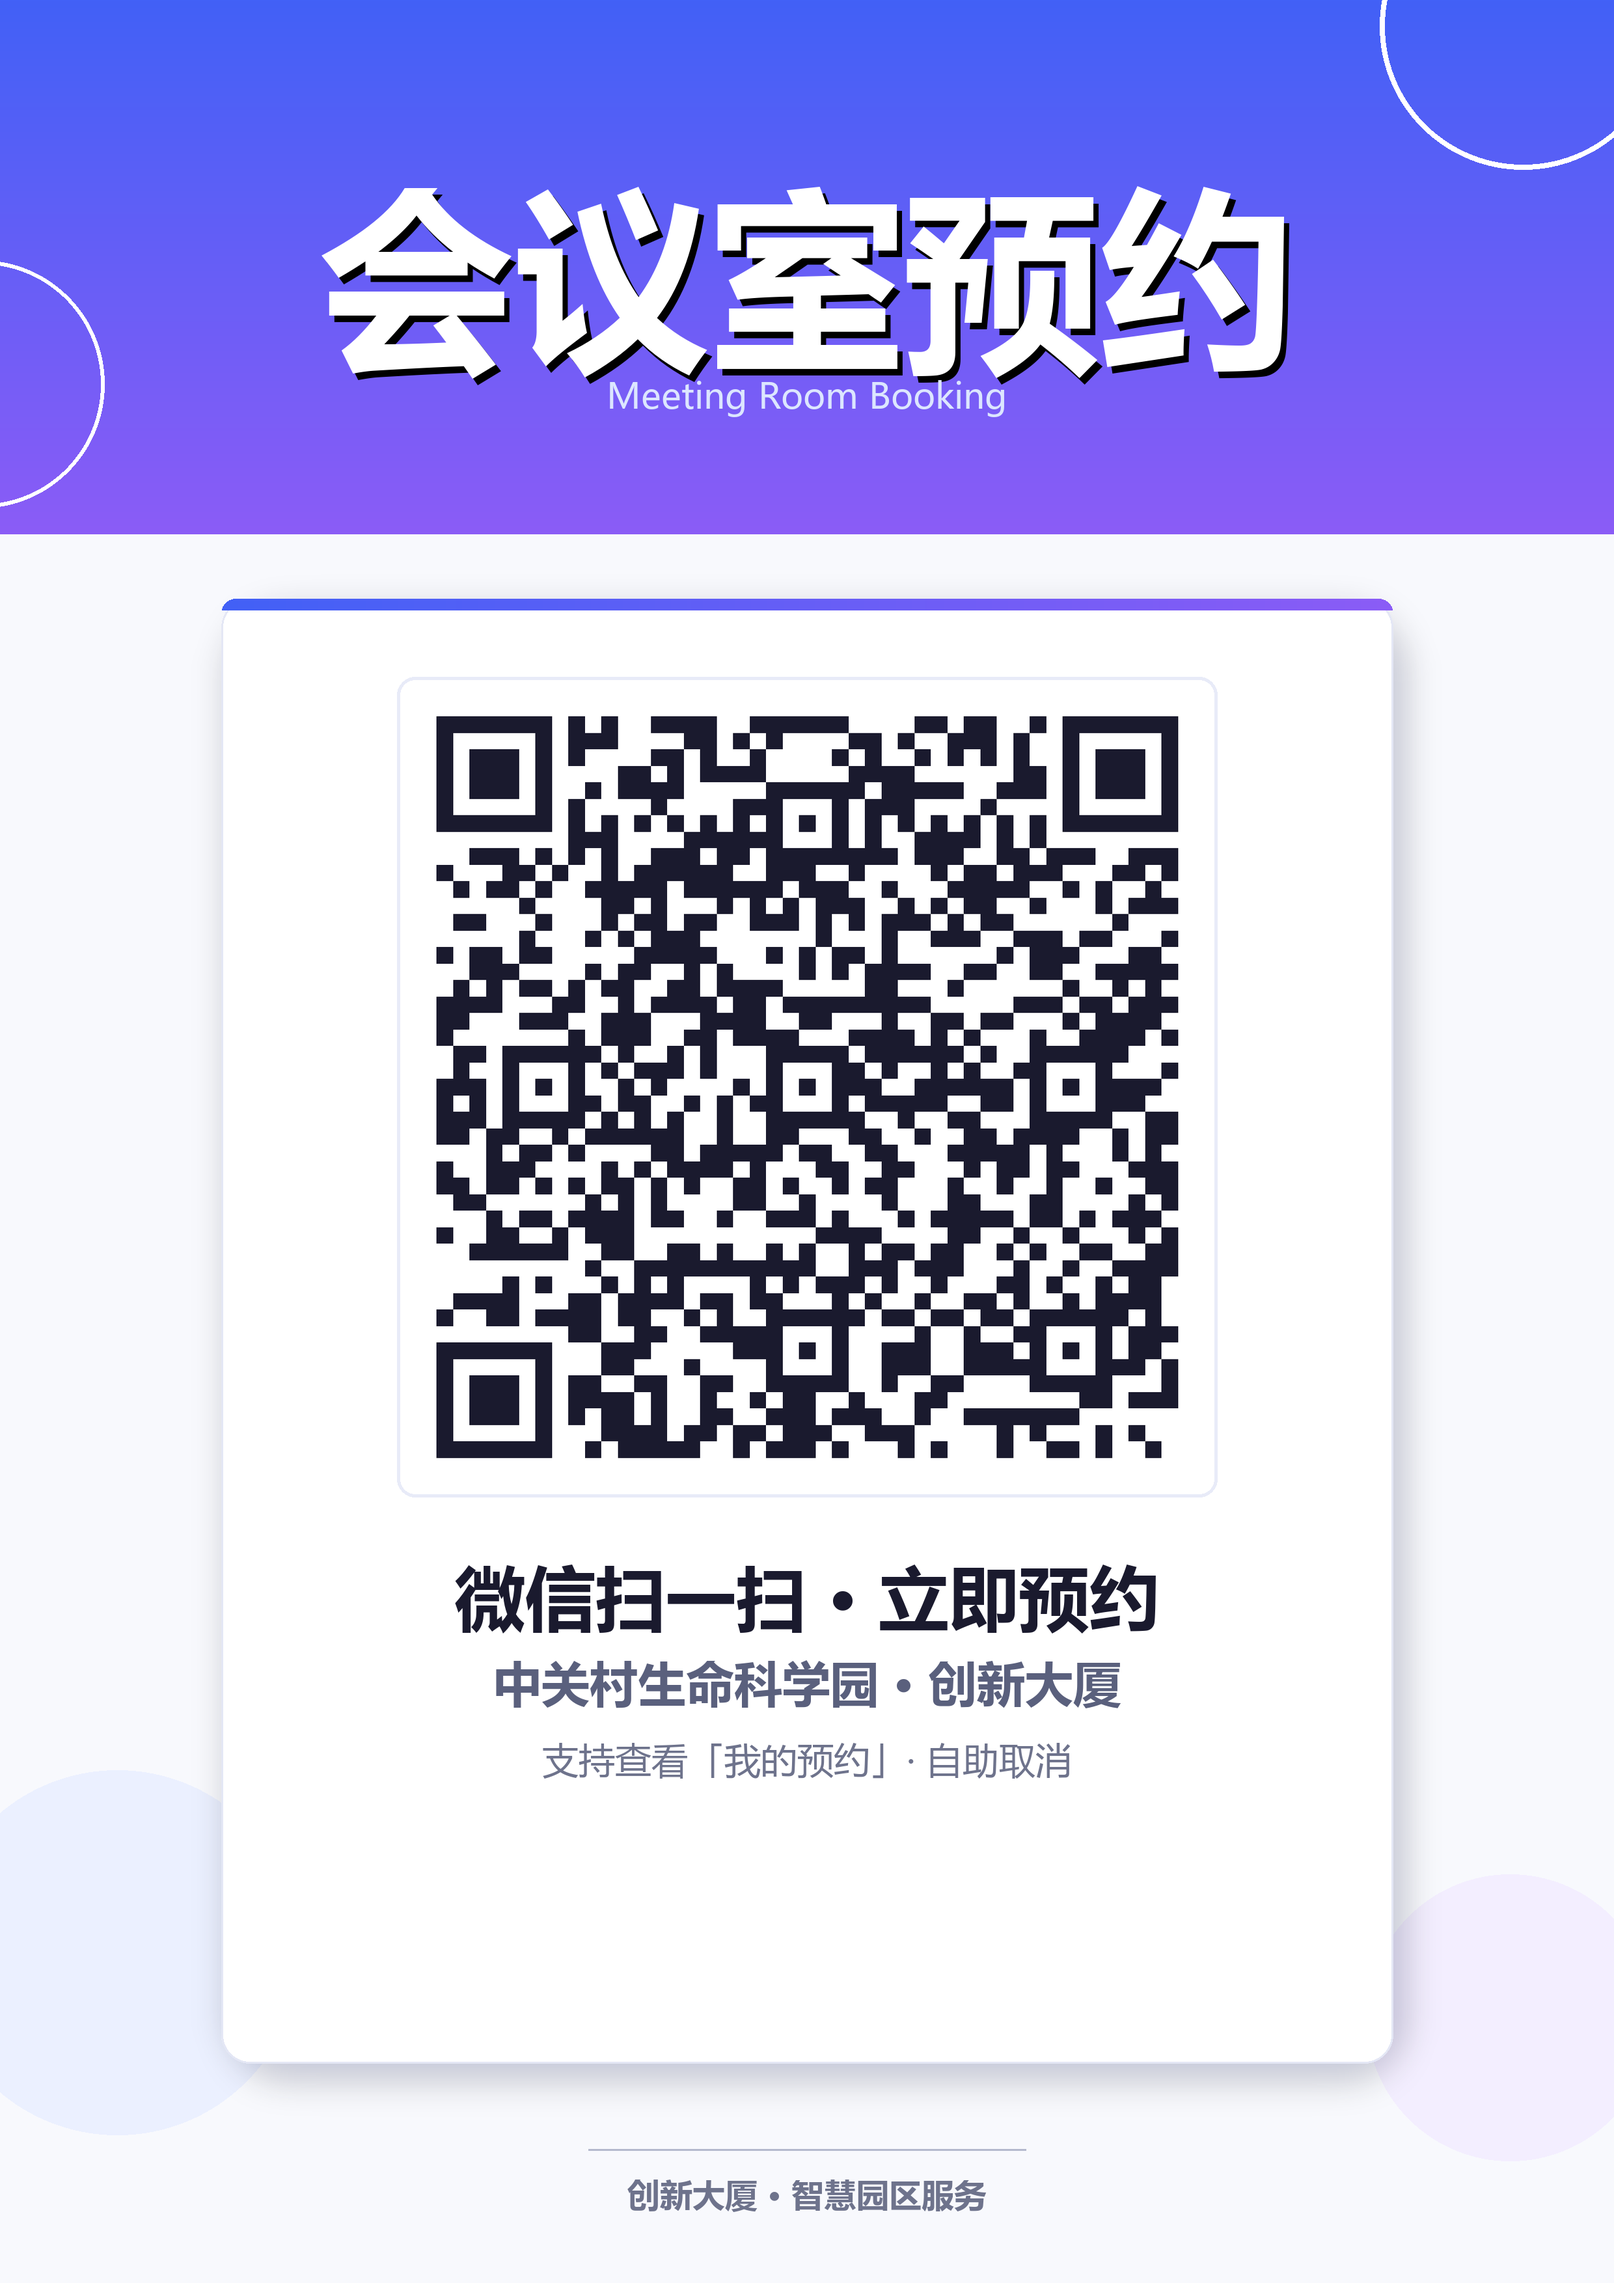
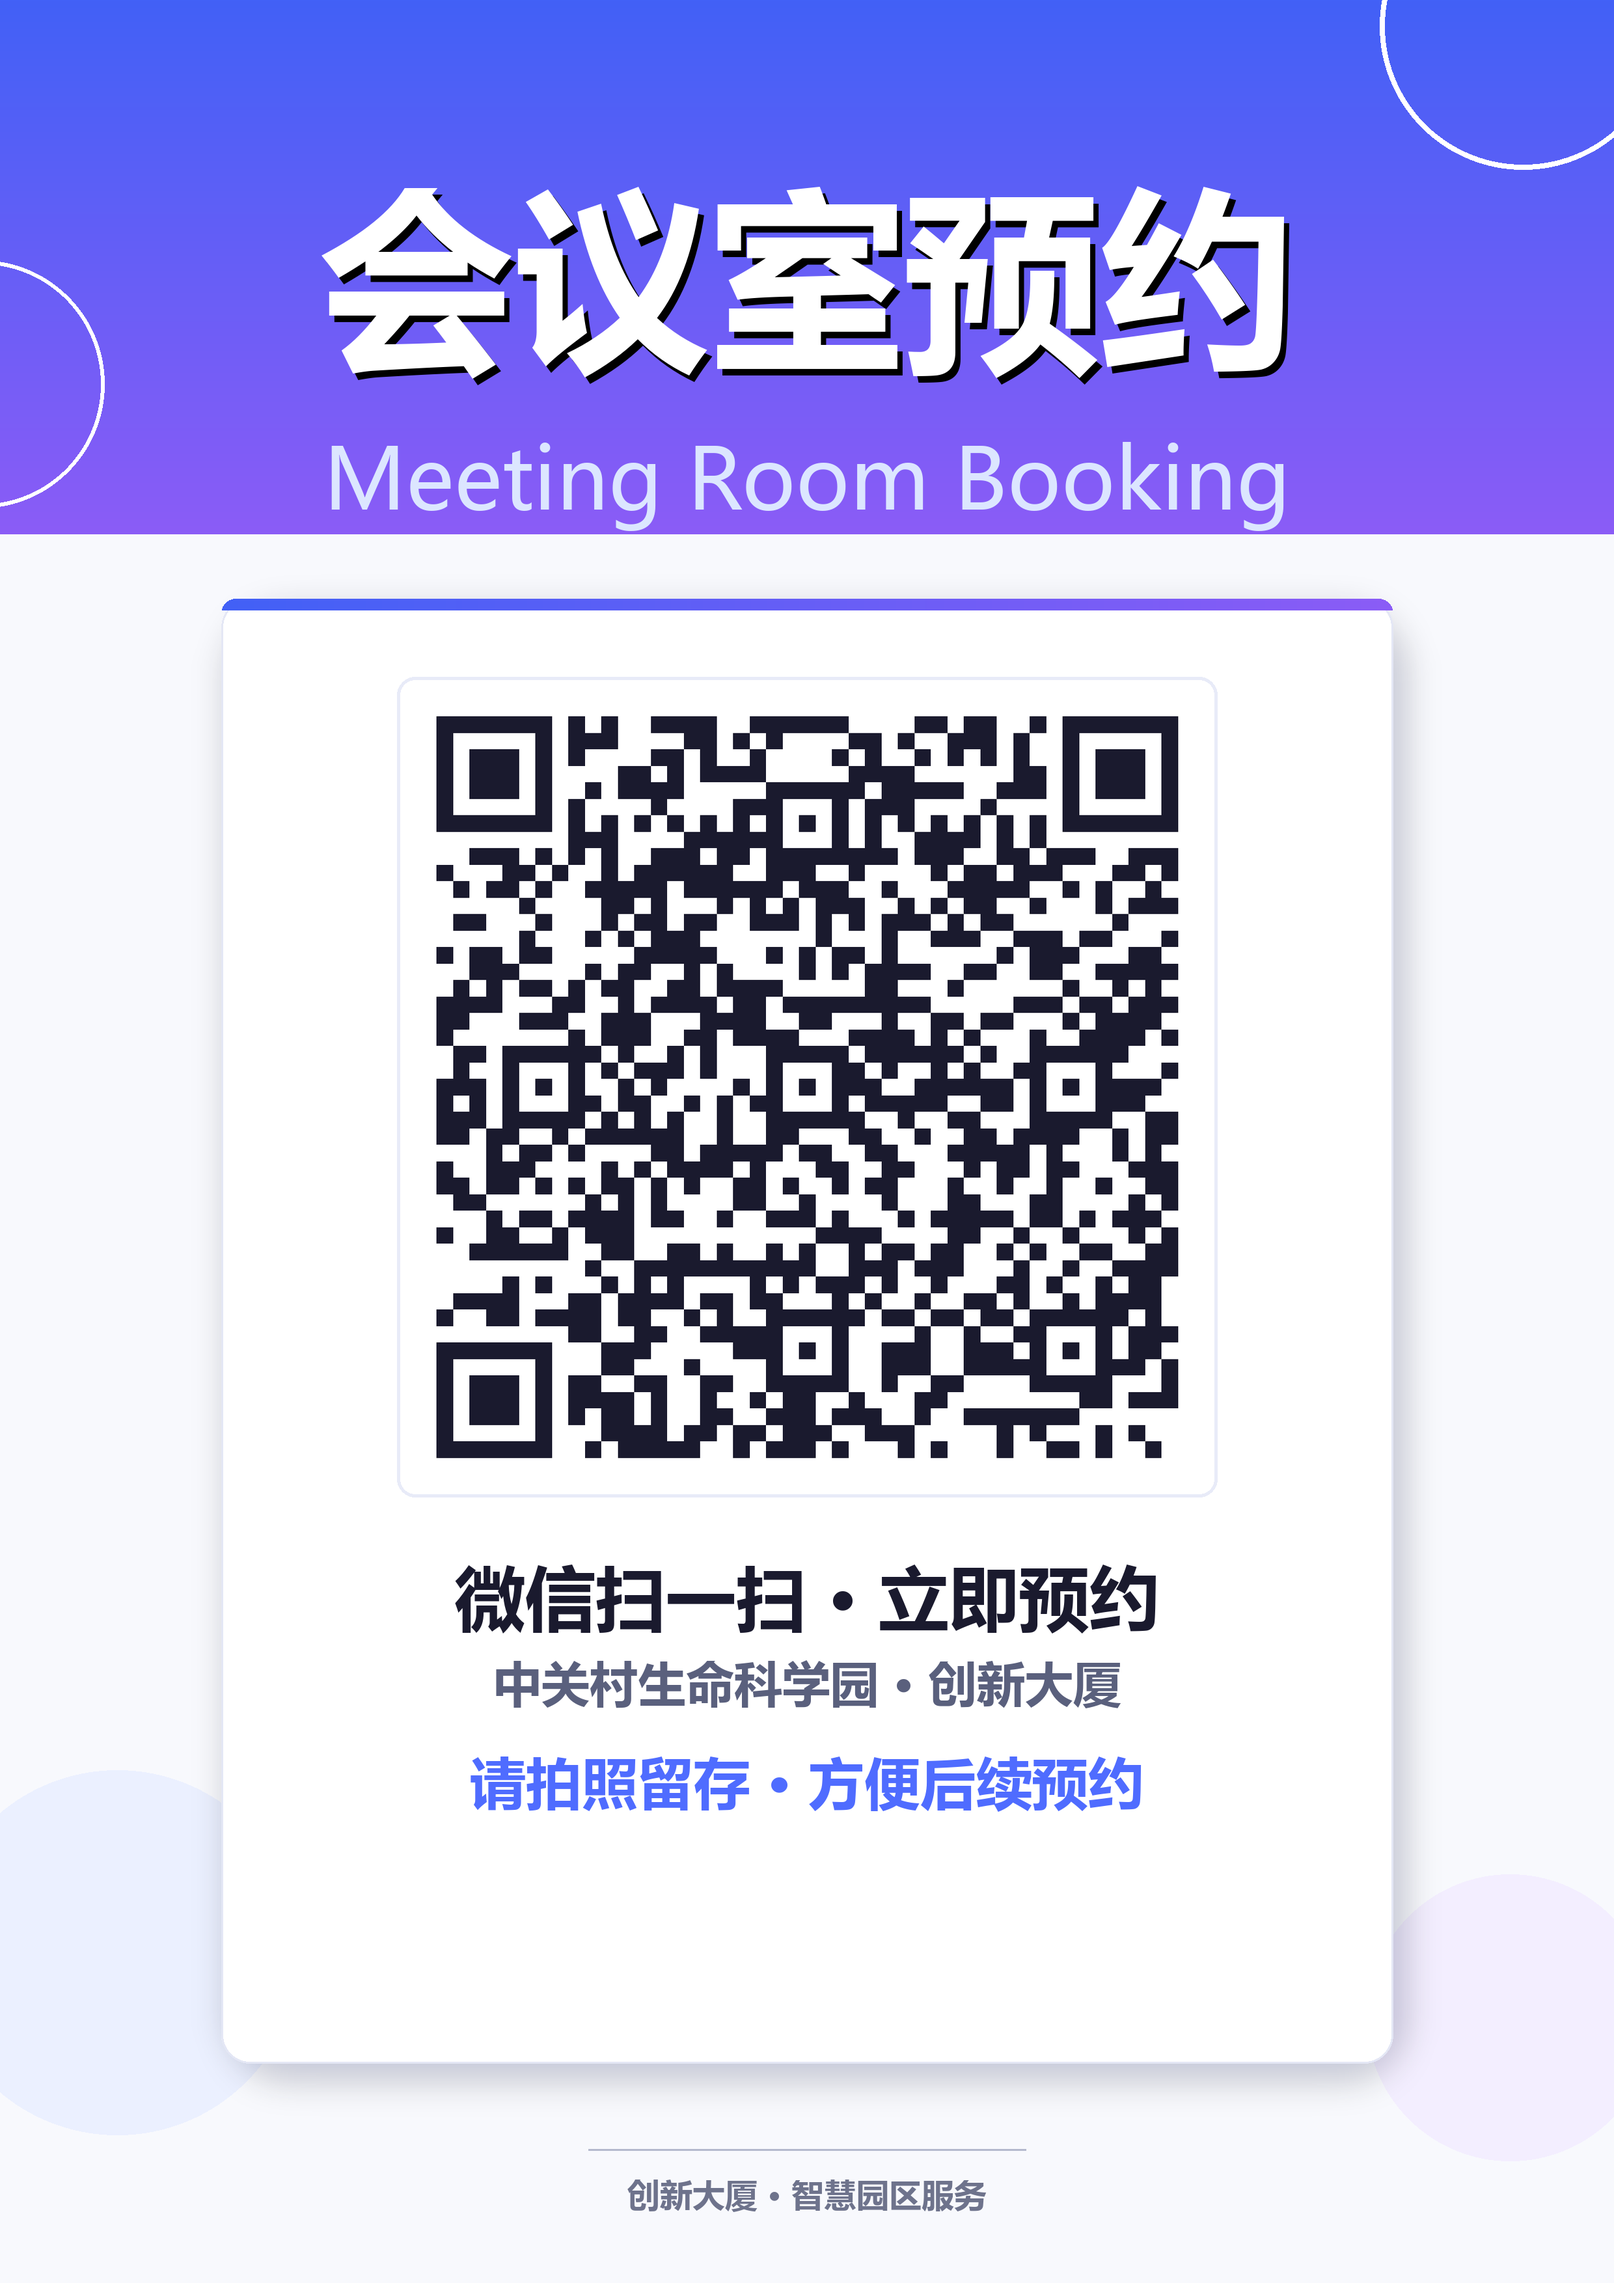
update(首页规则+海报终版): 调整使用须知 4 条；A4 海报定稿（拍照留存+英文宽度对齐中文）

Changed region(s): [[0.1863, 0.1554, 0.8073, 0.2486], [0.2794, 0.7457, 0.7141, 0.8079]]

diff --git a/public/index.html b/public/index.html
@@ -25,19 +25,19 @@
         <div style="font-size: 13px; color: var(--text-secondary); line-height: 1.9;">
           <div style="display: flex; gap: 8px; align-items: flex-start;">
             <span class="badge badge-primary">①</span>
-            <span>每次预约最长 1 小时，可连续选择多个时段</span>
+            <span>每次预约最长 3 小时</span>
           </div>
           <div style="display: flex; gap: 8px; align-items: flex-start; margin-top: 10px;">
             <span class="badge badge-primary">②</span>
-            <span id="tip-advance">仅可预约未来 7 天内的工作时段（08:00-20:00）</span>
+            <span>同一企业单天最多预约 6 小时</span>
           </div>
           <div style="display: flex; gap: 8px; align-items: flex-start; margin-top: 10px;">
             <span class="badge badge-primary">③</span>
-            <span>同一企业同一时段仅可预订 1 间会议室</span>
+            <span>仅可预约未来 5 个工作日</span>
           </div>
           <div style="display: flex; gap: 8px; align-items: flex-start; margin-top: 10px;">
             <span class="badge badge-primary">④</span>
-            <span>如需取消或调整，请联系园区运营</span>
+            <span>取消请在「我的预约」中自行操作，有任何问题请联系园区运营人员</span>
           </div>
         </div>
       </div>

diff --git a/poster.py b/poster.py
@@ -52,11 +52,17 @@ tx, ty = (W - tw) / 2, 220
 d.text((tx + 8, ty + 10), t, font=f_title, fill=(0, 0, 0))
 d.text((tx, ty), t, font=f_title, fill=WHITE)
 
-# 英文装饰小字
-f_en = font(54)
+# 英文装饰：宽度对齐中文主标题「会议室预约」（视觉一致、约一半字号）
 t_en = "Meeting Room Booking"
-tw_en = d.textlength(t_en, font=f_en)
-d.text(((W - tw_en) / 2, 570), t_en, font=f_en, fill=(220, 230, 255))
+cn_w = d.textlength("会议室预约", font=f_title)
+en_sz = 200
+while en_sz > 20:
+    fe = font(en_sz)
+    if d.textlength(t_en, font=fe) <= cn_w:
+        break
+    en_sz -= 2
+en_y = 560 + max(0, (300 - en_sz)) // 2
+d.text(((W - d.textlength(t_en, font=fe)) / 2, en_y), t_en, font=fe, fill=(220, 230, 255))
 
 # ---------- 中央白卡片 ----------
 CARD_W, CARD_H = 1800, 2250
@@ -111,10 +117,11 @@ t2 = "中关村生命科学园 · 创新大厦"
 tw2 = d.textlength(t2, font=f_subtitle)
 d.text(((W - tw2) / 2, y1 + 155), t2, font=f_subtitle, fill=(90, 96, 125))
 
-f_hint = font(56)
-t3 = "支持查看「我的预约」· 自助取消"
-tw3 = d.textlength(t3, font=f_hint)
-d.text(((W - tw3) / 2, y1 + 285), t3, font=f_hint, fill=SUB)
+# 高亮提示：请拍照留存（放大 + 删除上一行后上移居中）
+f_keep = font(86, True)
+t_keep = "请拍照留存 · 方便后续预约"
+tw_keep = d.textlength(t_keep, font=f_keep)
+d.text(((W - tw_keep) / 2, y1 + 300), t_keep, font=f_keep, fill=C1)
 
 # ---------- 底部 ----------
 f_ft = font(50, True)
